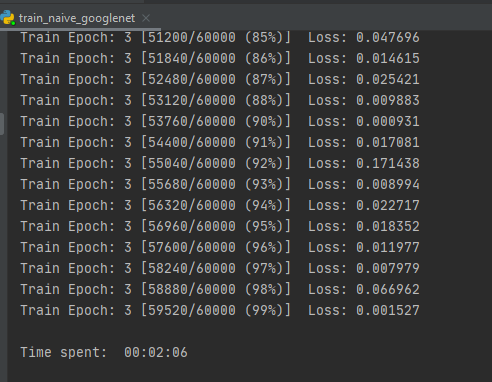
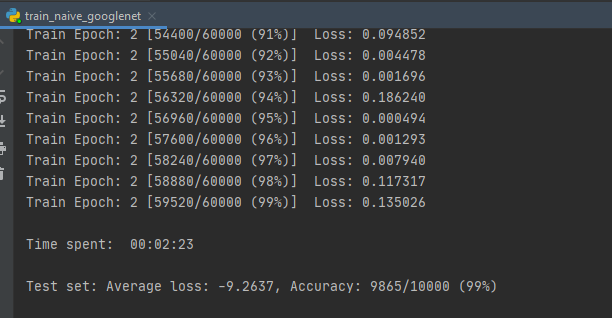
Uploaded results images

Changed region(s): [[0.0, 0.0, 1.0, 0.8491], [0.0305, 0.8774, 0.8232, 0.934]]

diff --git a/Q4_mnist_googlenet/README.md b/Q4_mnist_googlenet/README.md
@@ -7,11 +7,10 @@ After 2 epochs training, the test accuracy reaches to 99%.
 ![Training Results of GoogLeNet](https://github.com/kuangzijian/UAlberta-Multimedia-Master-Program-MM811-2020-Assignment-2/blob/dev/Q4_mnist_googlenet/Test%20Results/train_googlenet_result.png)
 
 2. The training process on the NaiveGoogleNet with MNIST Datasets, takes around 2min20secs to train the model per epoch (based on the timer I added in the training code).
-After 3 epochs training, the test accuracy reaches to 99%.
+After 2 epochs training, the test accuracy reaches to 99%.
 
 ![Training Results of NaiveGoogLeNet](https://github.com/kuangzijian/UAlberta-Multimedia-Master-Program-MM811-2020-Assignment-2/blob/dev/Q4_mnist_googlenet/Test%20Results/train_naive_googlenet_result.png)
 
 
-3. Comparing the training performance, the googleNet with naive inception is very computationally expensive.
-The training effiency is also lower than the GoogLeNet with v1 inception.
+3. Comparing the training performance, the googleNet with naive inception is computationally expensive, and the training effiency is also lower than the GoogLeNet with v1 inception.
 
